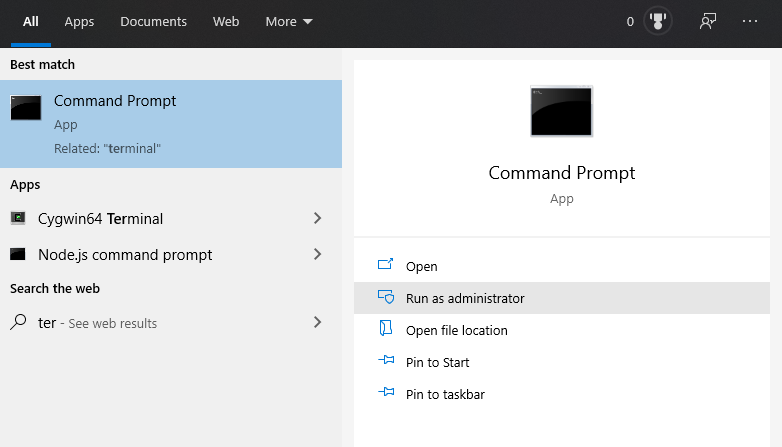
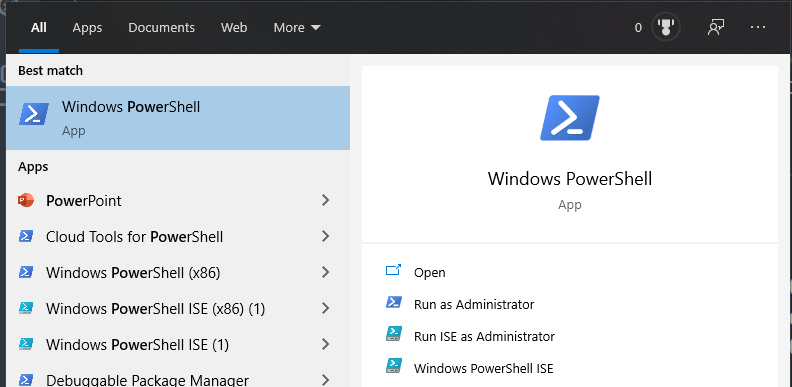
content: wsl

diff --git a/hugo/content/lessons/windows-10-for-web-dev/index.md b/hugo/content/lessons/windows-10-for-web-dev/index.md
@@ -1,15 +1,16 @@
 ---
-title: Windows (and Linux) for Web Development
+title: Web Development Setup Guide for Windows with Linux (WSL)
 lastmod: 2020-04-03T13:22:42-07:00
 publishdate: 2020-04-03T13:22:42-07:00
 author: Jeff Delaney
 draft: false
-description: Setup the ultimate web development environment running Linux on Windows 10 
+description: The ultimate web developer's environment setup on Windows, including WSL for Linux (Ubuntu)
 tags: 
     - productivity
+    - github
+    - node
 
-
-# youtube: 
+youtube: -atblwgc63E
 # github: 
 # disable_toc: true
 # disable_qna: true
@@ -21,11 +22,9 @@ tags:
 #    rxdart: 0.20
 ---
 
-Maximizing productivity as a web developer means choosing the right tools. 
+Historically, Windows has not been been the preferred OS for most web developers, but things have changed over the past couple years. Microsoft recently launched [Windows Subsystem for Linux](https://docs.microsoft.com/en-us/windows/wsl/about) or WSL (WSL2), allowing us to install REAL linux distros (like Ubuntu) on Windows 10. This means you can use Linux toolchains (bash, zsh, tmux) and apps to manage the file system and run windows apps. 
 
-Historically, Windows has been been the preferred OS for web developers. Most web servers run on Linux and it helps to develop on an OS the closely resembles your production environment. 
-
-but Microsoft launched a game changer in 2020 - [Subsystem for Linux](https://docs.microsoft.com/en-us/windows/wsl/about). It allows us to install REAL (not emulated) linux distros (like Ubuntu) on Windows. 
+Unlike a dual boot system, where two operating systems are installed on the same hard drive, WSL runs Linux in a compatibility layer that can run unmodified l64 binaries. The following lesson will teach you how to enable WSL and setup other important tools for web development, like Node.js, git, Docker, browsers, and more. 
 
 ## Linux on Windows
 
@@ -33,9 +32,9 @@ The following steps will install Linux in your Windows 10 environment. Also refe
 
 ### Enable Windows-Subsystem-Linux (WSL)
 
-Open a terminal session or PowerShell with admin privileges. 
+From the start menu, search for PowerShell and run it as an administrator. 
 
-{{< figure src="img/win-terminal-admin.png" caption="Open the command prompt in Windows 10 as an administrator" >}}
+{{< figure src="img/win-terminal-admin.png" caption="Open PowerShell in Windows 10 as an administrator" >}}
 
 Run the command below. It will require a full reboot of your system. 
 
@@ -46,13 +45,13 @@ Enable-WindowsOptionalFeature -Online -FeatureName Microsoft-Windows-Subsystem-L
 
 ### Install a Linux Distro
 
-Open the Microsoft store and search for *Linux*. Choose your preferred distro - personally, I prefer [Ubuntu](https://ubuntu.com/). 
+Open the Microsoft store and search for *Linux*. Choose your preferred distro - choose [Ubuntu](https://ubuntu.com/) if you don't have a preference. 
 
 {{< figure src="img/win-linux-distros.png" caption="Install your favorite Linux flavor" >}}
 
 ### Install Windows Terminal
 
-Windows has a [new terminal app](https://www.microsoft.com/en-us/p/windows-terminal-preview/9n0dx20hk701) for working with the command line. Install it to easily switch between Linux and PowerShell. 
+Windows has a [new terminal app](https://www.microsoft.com/en-us/p/windows-terminal-preview/9n0dx20hk701) that makes it easier to work with the command line. Install it to quickly between Linux and PowerShell sessions. 
 
 {{< figure src="img/win-terminal-app.png" caption="Install windows terminal and start a Linux session" >}}
 
@@ -66,6 +65,16 @@ cd testing # move into directory
 touch somefile.txt # create a file
 cat somefile.txt # read a file
 vi somefile.txt # edit a file with vim
+code somefile.txt # edit a file with vscode
+```
+
+### Run the Linux Train
+
+You can run a the famous Linux shell train with the following commands: 
+
+```bash
+sudo apt-get install sl
+sl
 ```
 ## Customize the Command Line Prompt
 
@@ -117,9 +126,7 @@ code ~/.zshrc # to customize it
 Change the `ZSH_THEME="random"`. Your terminal sessions should be looking very fancy. Now hit `ctrl+shift+3` to cycle through different options. 
 
 
-{{< file "terminal" "command line" >}}
-
-## VSCode
+## VS Code with WSL
 
 With WSL installed, we need to to connect it VS Code.
 
@@ -129,12 +136,89 @@ The [Remote WSL extension](https://marketplace.visualstudio.com/items?itemName=m
 
 {{< figure src="img/win-wsl-extension.png" caption="Remote WSL extension" >}}
 
-## Node.js
 
-As a web developer you need Node.js.
+## Node.js & NPM
 
-## Vim
+As a web developer you need Node.js. You can manage multiple versions with [NVM](https://github.com/nvm-sh/nvm).
 
-Completely useless. 
+### Bash Install
 
-## Windows Terminal
+If using bash, install NVM like so:
+
+{{< file "terminal" "command line" >}}
+```text
+curl -o- https://raw.githubusercontent.com/nvm-sh/nvm/v0.35.3/install.sh | bash
+```
+
+### Zsh Install
+
+If using Zsh, open the `~/.zshrc` file and update the plugins:
+
+```bash
+plugins=(git nvm)
+```
+## Install Node
+
+
+Install the recommended [LTS version](https://nodejs.org/en/) of Node. It will automatically install NPM and Node. 
+
+
+{{< file "terminal" "command line" >}}
+```text
+nvm install 12.16.1
+
+node -v
+npm -v
+```
+
+## Git
+
+Install the latest version of git. 
+
+{{< file "terminal" "command line" >}}
+```text
+sudo apt install git
+git --version
+```
+
+### Cache Remote Login Credentials
+
+If you work with Github it can be useful to cache your git credentials to avoid typing your username/password on every remote push. 
+
+{{< file "terminal" "command line" >}}
+```text
+git config --global user.name "Jeff Delaney"
+git config --global user.email "hello@fireship.io"
+git config --global credential.helper cache --timeout=3600
+```
+
+### GitHub CLI
+
+The [GitHub CLI](https://cli.github.com/) allows you to manage remote repos, view issues, and other useful tasks on GitHub from the command line. Follow the install instructions for [Ubuntu](https://github.com/cli/cli#debianubuntu-linux). 
+
+You now have access to the `gh` command For example, fetch a list of all the issues in a repo: 
+
+```text
+gh issue list --repo fireship-io/fireship.io
+```
+
+## Docker
+
+Docker containers can be managed from Windows, but connecting them to Linux requires some extra work. [Improved interoperability](https://docs.docker.com/docker-for-windows/wsl-tech-preview/) is coming soon (May 2020) in WSL2. 
+
+### Windows Docker Desktop
+
+If you have Windows 10 **PRO** you can install [Docker Desktop](https://www.docker.com/products/docker-desktop) to run virtual machines natively on Windows. The desktop app makes it very easy to manage containers and search through their logs. When WSL2 becomes generally available, you can enable Linux support by ticking the box below. 
+
+{{< figure src="img/win-docker-desktop.png" caption="Docker Desktop. Notice the WSL2 option" >}}
+
+
+## Browsers
+
+As a web developer, you should also have a variety of browsers installed on your system. At the very least, I recommend the following: 
+
+1. Google Chrome - Best for JS Debugging
+2. Mozilla Firefox - Best for CSS Debugging
+3. Brave - See how your site behaves on a privacy-conscious environment
+
+
